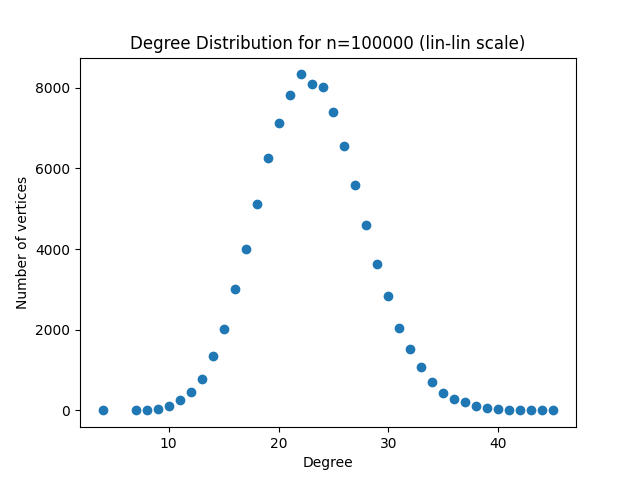
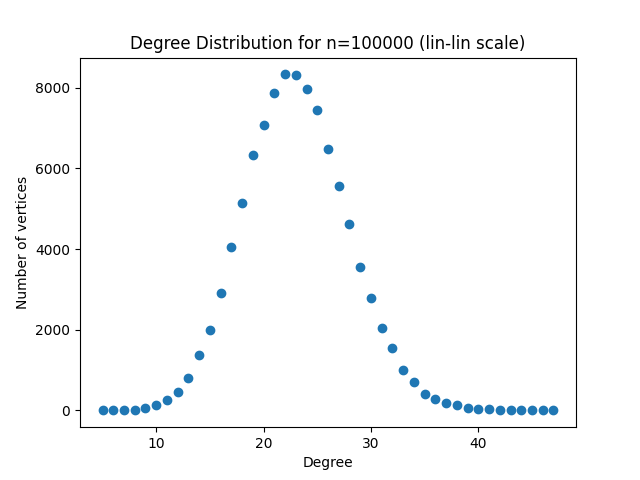
fixed graph generation

diff --git a/graph.py b/graph.py
@@ -6,11 +6,15 @@ from collections.abc import Iterable
 class Graph:
 	def __init__(self, num_nodes: int, edges: Iterable[tuple[int, int]]):
 		self.nodes = set(range(num_nodes))
-		self.edges = set(edges)
+		self.edges = set()
 		self.neighbor_dict = {node: set() for node in self.nodes}
-		for u, v in self.edges:
-			self.neighbor_dict[u].add(v)
-			self.neighbor_dict[v].add(u)
+		for u, v in edges:
+			if u < v:
+				self.edges.add((u, v))
+			else:
+				self.edges.add((v, u))
+				self.neighbor_dict[u].add(v)
+				self.neighbor_dict[v].add(u)
 			
 
 	def get_num_nodes(self) -> int:
